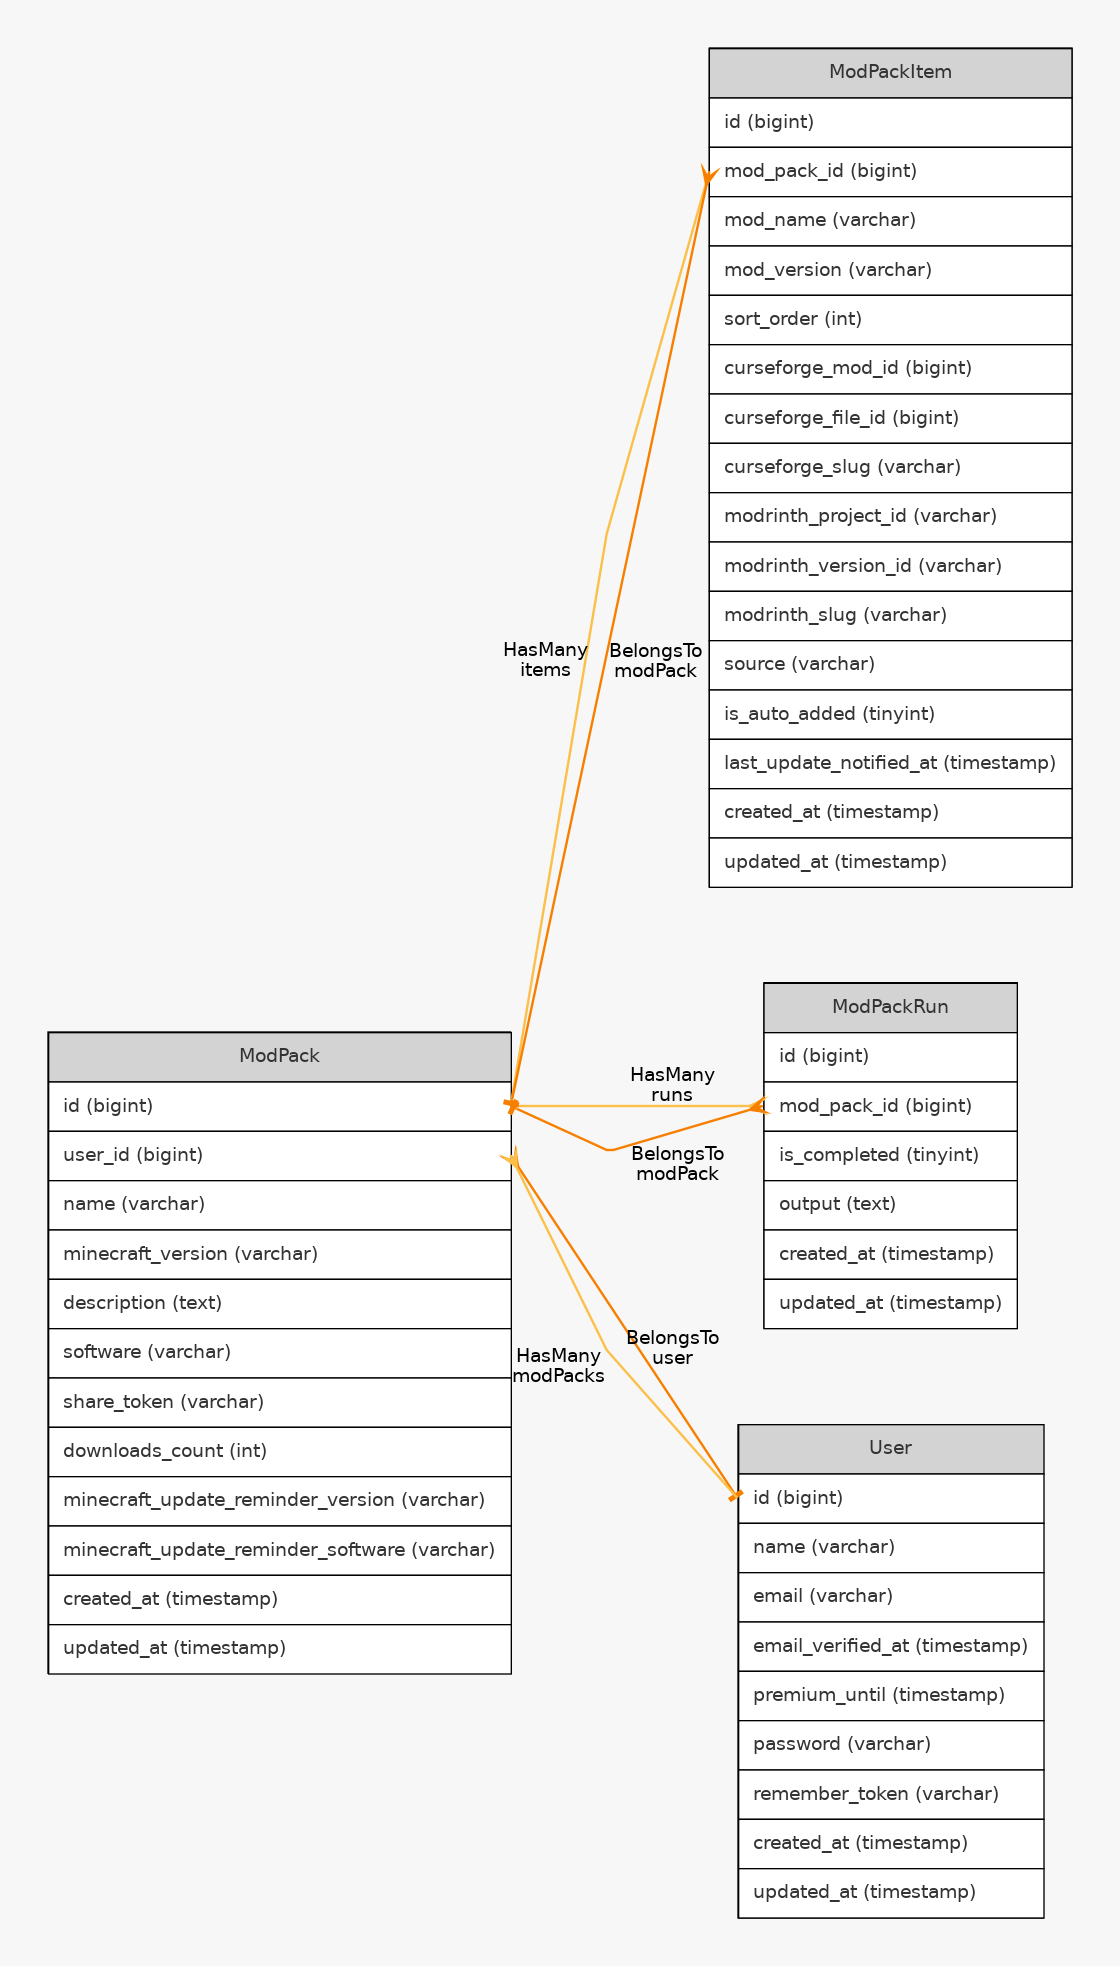
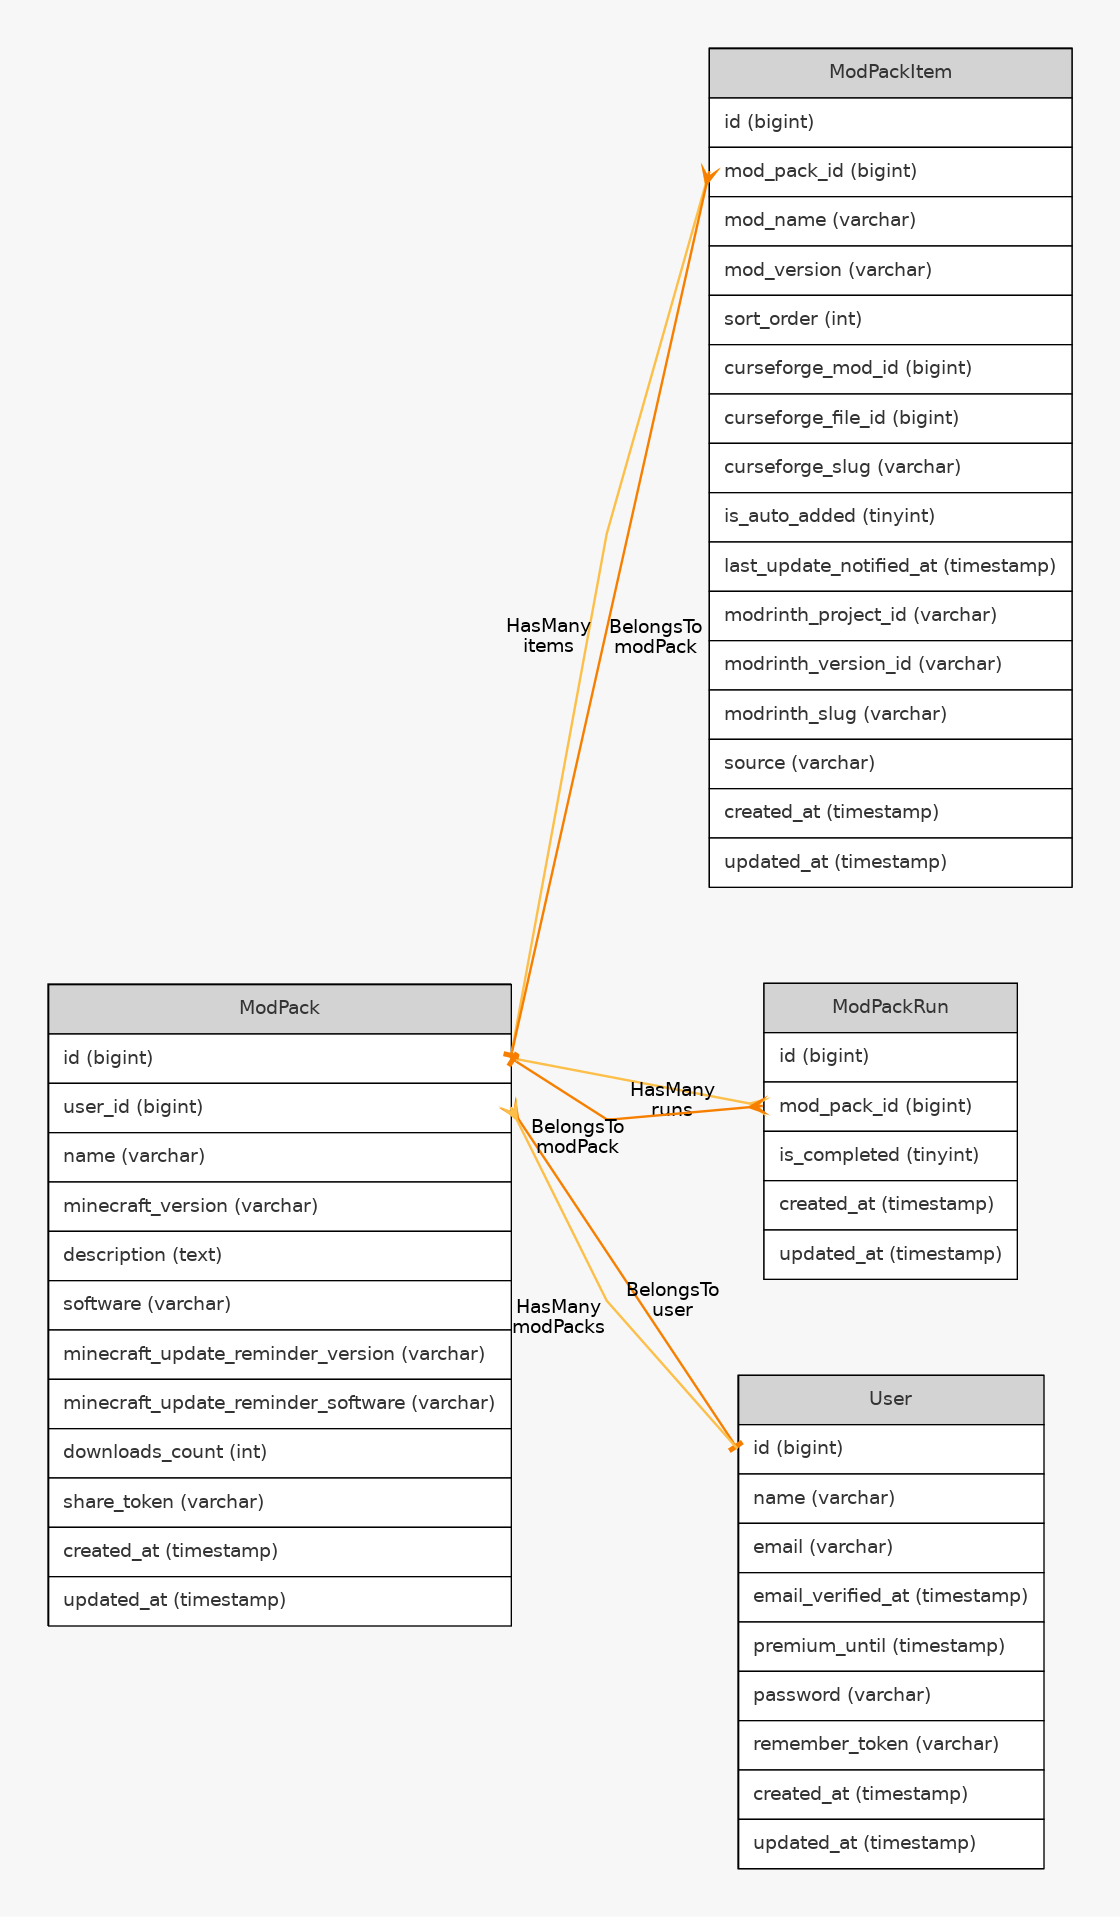
refine(db): cleanup migrations

diff --git a/src/database/migrations/2026_01_02_121033_create_mod_pack_items_table.php b/src/database/migrations/2026_01_02_121033_create_mod_pack_items_table.php
@@ -20,11 +20,19 @@ return new class extends Migration
             $table->unsignedBigInteger('curseforge_mod_id')->nullable();
             $table->unsignedBigInteger('curseforge_file_id')->nullable();
             $table->string('curseforge_slug')->nullable();
+            $table->boolean('is_auto_added')->default(false);
+            $table->timestamp('last_update_notified_at')->nullable();
+            $table->string('modrinth_project_id')->nullable();
+            $table->string('modrinth_version_id')->nullable();
+            $table->string('modrinth_slug')->nullable();
+            $table->string('source')->nullable()->comment('Platform source: curseforge or modrinth');
             $table->timestamps();
 
             $table->index('mod_pack_id');
             $table->index(['mod_pack_id', 'sort_order']);
             $table->index('curseforge_mod_id');
+            $table->index('modrinth_project_id');
+            $table->index('source');
         });
     }
 

diff --git a/src/database/migrations/2026_01_02_120945_create_mod_packs_table.php b/src/database/migrations/2026_01_02_120945_create_mod_packs_table.php
@@ -18,8 +18,13 @@ return new class extends Migration
             $table->string('minecraft_version');
             $table->text('description')->nullable();
             $table->string('software')->default('forge');
+            $table->string('minecraft_update_reminder_version')->nullable();
+            $table->string('minecraft_update_reminder_software')->nullable();
+            $table->unsignedInteger('downloads_count')->default(0);
+            $table->string('share_token', 64)->nullable()->unique();
             $table->timestamps();
 
+            $table->index('share_token');
             $table->index('user_id');
             $table->index('minecraft_version');
         });

diff --git a/src/database/migrations/0001_01_01_000000_create_users_table.php b/src/database/migrations/0001_01_01_000000_create_users_table.php
@@ -16,6 +16,7 @@ return new class extends Migration
             $table->string('name');
             $table->string('email')->unique();
             $table->timestamp('email_verified_at')->nullable();
+            $table->timestamp('premium_until')->nullable();
             $table->string('password');
             $table->rememberToken();
             $table->timestamps();

diff --git a/src/database/migrations/2026_01_10_201340_create_mod_pack_runs_table.php b/src/database/migrations/2026_01_10_201340_create_mod_pack_runs_table.php
@@ -15,7 +15,6 @@ return new class extends Migration
             $table->id();
             $table->foreignId('mod_pack_id')->constrained()->cascadeOnDelete();
             $table->boolean('is_completed')->default(false);
-            $table->text('output')->nullable();
             $table->timestamps();
         });
     }

diff --git a/src/database/factories/ModPackRunFactory.php b/src/database/factories/ModPackRunFactory.php
@@ -19,7 +19,6 @@ class ModPackRunFactory extends Factory
         return [
             'mod_pack_id' => \App\Models\ModPack::factory(),
             'is_completed' => false,
-            'output' => null,
         ];
     }
 }

diff --git a/src/app/Models/ModPackRun.php b/src/app/Models/ModPackRun.php
@@ -18,7 +18,6 @@ class ModPackRun extends Model
     protected $fillable = [
         'mod_pack_id',
         'is_completed',
-        'output',
     ];
 
     /**
